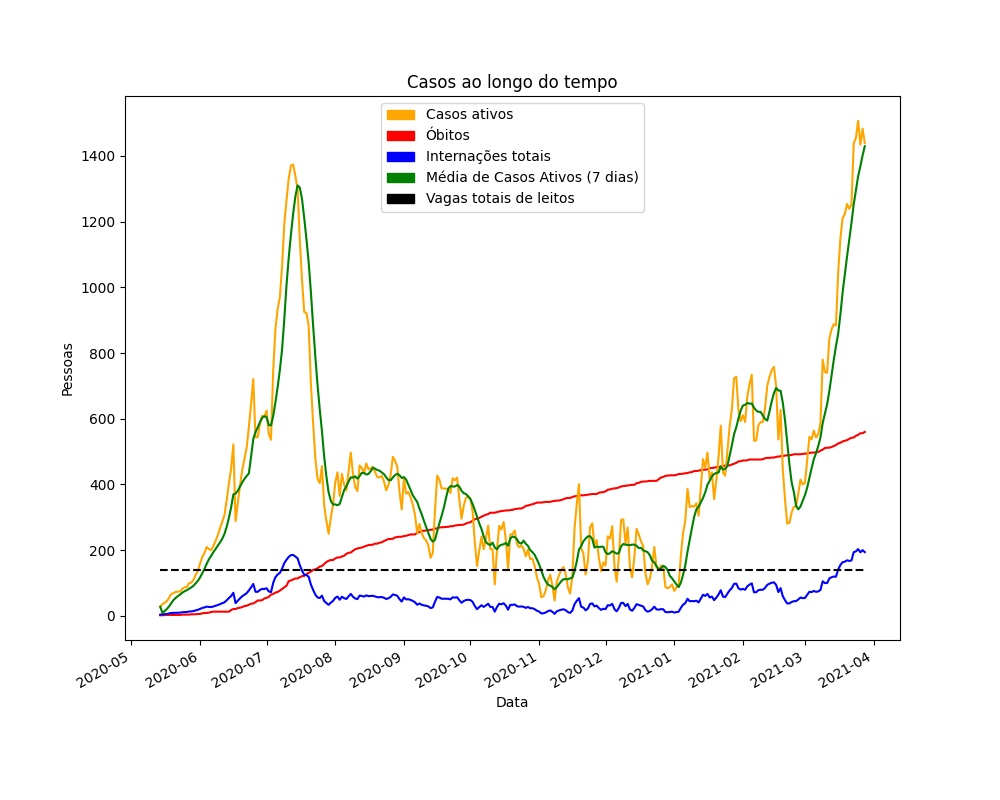
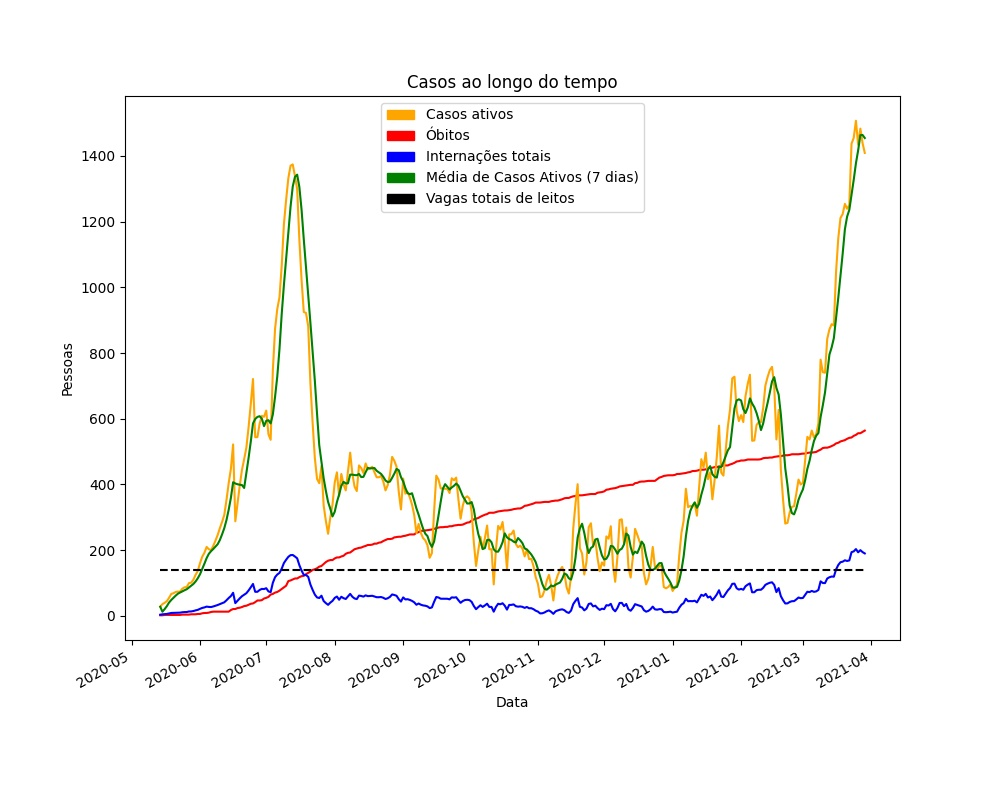
Gráfico de novos casos

diff --git a/seriestemporais.py b/seriestemporais.py
@@ -46,15 +46,7 @@ dados = padrao.findall(conteudo)
 data_final = data_final.strftime('%Y%m%d')
 datas = pd.date_range(start = "20200514", end = data_final, freq = "D")
 
-# Finalmente, os dados através de list comprehensions
-# O formato usado separa os dados encontrandos em ',' e mapeia cada entrada da lista separada a um inteiro
-# Os índices 0 a 2 e 7 a (len(dados)-2) simplesmente ignora as entradas desnecessárias dos dados encontrados ('data:', '[' e ']')
-casosTotais = [int(s) for s in dados[0][7:len(dados[0])-1].split(',')]
-casosRec = [int(s) for s in dados[1][7:len(dados[1])-1].split(',')]
-obitos = [int(s) for s in dados[2][7:len(dados[2])-1].split(',')]
-
-
-# A função a seguir faz subtração entre arrays do mesmo tamanho
+# As funções a seguir são utilitárias usadas para tratar os dados
 def util(listA, listB):
 
     listaSubtraida = list()
@@ -81,17 +73,17 @@ def somaListas(listA, listB):
 
 def util2(listA, listB, dif = 1):
 
-    listaSubtraida = list()
+    listaFinal = list()
 
     if len(listA) != len(listB):
         print("Tamanho incompatível")
     i = 0
     while i < len(listA):
-        if i >= dif:
-            listaSubtraida.append(listA[i] - listB[i-dif])
+        if (i - dif) >= 0:
+            listaFinal.append(listA[i] - listB[i-dif])
             i += 1
-        else: listaSubtraida.append(0); i+= 1
-    return listaSubtraida
+        else: listaFinal.append(0); i+= 1
+    return listaFinal
 
 def util3(listA, n):
     
@@ -169,11 +161,19 @@ def util7(serie, n):
         i += 1
     return listaFinal
 
+# Finalmente, os dados através de list comprehensions
+# O formato usado separa os dados encontrandos em ',' e mapeia cada entrada da lista separada a um inteiro
+# Os índices 0 a 2 e 7 a (len(dados)-2) simplesmente ignora as entradas desnecessárias dos dados encontrados ('data:', '[' e ']')
+casosTotais = [int(s) for s in dados[0][7:len(dados[0])-1].split(',')]
+casosRec = [int(s) for s in dados[1][7:len(dados[1])-1].split(',')]
+obitos = [int(s) for s in dados[2][7:len(dados[2])-1].split(',')]
+
 # Para calcular o número de casos ativos de um período t, é necessário subtrair dos casos totais acumulados
 # os casos recuperados e os óbitos até então.
 casosAtivos = util(casosTotais, casosRec)
 casosAtivos = util(casosAtivos, obitos)
-mediaCasosAtivos = util7(casosAtivos, 7)
+novosCasos = util2(casosTotais, casosTotais)
+mediaCasosAtivos = util7(casosAtivos, 5)
 obitosDiarios = util2(obitos, obitos)
 internações = util3(casosAtivos, 0.135)
 internaçõesUTI = util3(casosAtivos, 0.054)
@@ -184,7 +184,9 @@ leitosTotais = somaListas(leitosEnfermaria, leitosUTI)
 
 # Inicializa as séries temporais
 serieObitos = pd.Series(data = obitos, index = datas)
+serieObitosDiarios = pd.Series(data = obitosDiarios, index = datas)
 serieCasos = pd.Series(data = casosAtivos, index = datas)
+serieNovosCasos = pd.Series(data = novosCasos, index = datas)
 serieMediaCasosAtivos = pd.Series(data = mediaCasosAtivos, index = datas)
 serieInternações = pd.Series(data = internações, index = datas)
 serieInternaçõesUTI = pd.Series(data = internaçõesUTI, index = datas)
@@ -246,6 +248,8 @@ legenda5 = mp.Patch(color = 'blue', label = 'Leitos enfermaria')
 legenda6 = mp.Patch(color = 'blue', label = 'Internações totais')
 legenda7 = mp.Patch(color = 'green', label = 'Média de Casos Ativos (7 dias)')
 legenda8 = mp.Patch(color = 'black', label = 'Vagas totais de leitos')
+legenda9 = mp.Patch(color = 'green', label = 'Novos casos')
+legenda10 = mp.Patch(color = 'red', label = 'Óbitos diários')
 
 # legenda3 = mp.Patch(color = 'blue', label = 'Série de casos estacionada')
 
@@ -254,7 +258,7 @@ fig1 = plt.figure(1, figsize = (10, 8))
 plot1 = fig1.add_subplot(111)
 fig1.autofmt_xdate(rotation=30)
 
-# Dá os títulos, legendas e plota
+# Dá os títulos, legendas, plota e salva
 plot1.set_title("Casos ao longo do tempo")
 plot1.legend(handles = [legenda0, legenda1, legenda6, legenda7, legenda8], loc = 0)
 plot1.set_ylabel("Pessoas")
@@ -272,9 +276,9 @@ fig2 = plt.figure(2, figsize = (10, 8))
 plot2 = fig2.add_subplot(111)
 fig2.autofmt_xdate(rotation=30)
 
-# Dá os títulos, legendas e plota
+# Dá os títulos, legendas, plota e salva
 plot2.set_title('Internações vs. Leitos')
-plot2.legend(handles = [legenda2, legenda3, legenda4, legenda5], loc = 0)
+plot2.legend(handles = [legenda2, legenda3, legenda4, legenda5, legenda9], loc = 0)
 plot2.set_ylabel('Pessoas/vagas')
 plot2.set_xlabel("Data")
 plot2.fmt_xdata = mdates.DateFormatter('%d-%m-%y')
@@ -283,6 +287,21 @@ plot2.plot(serieInternações*0.6, '-', color = 'orange')
 plot2.plot(serieInternações*util5(internações, 31), '--', color = 'black')
 plot2.plot(serieInternações*util5(internações, 110), '--', color = 'blue')
 fig2.savefig('internações.jpg')
+
+# Inicia uma figura com um subplot
+fig3 = plt.figure(3, figsize = (10, 8))
+plot3 = fig3.add_subplot(111)
+fig3.autofmt_xdate(rotation=30)
+
+# Dá os títulos, legendas, plota e salva
+plot3.set_title("Novos Casos e Óbitos diários")
+plot3.legend(handles = [legenda9, legenda10], loc = 0)
+plot3.set_ylabel("Pessoas")
+plot3.set_xlabel("Data")
+plot3.fmt_xdata = mdates.DateFormatter('%d-%m-%y')
+plot3.plot(serieNovosCasos, color = 'green')
+plot3.plot(serieObitosDiarios, color = 'red')
+fig3.savefig('novosCasos.jpg')
 
 # Exibe os gráficos
 plt.show()
